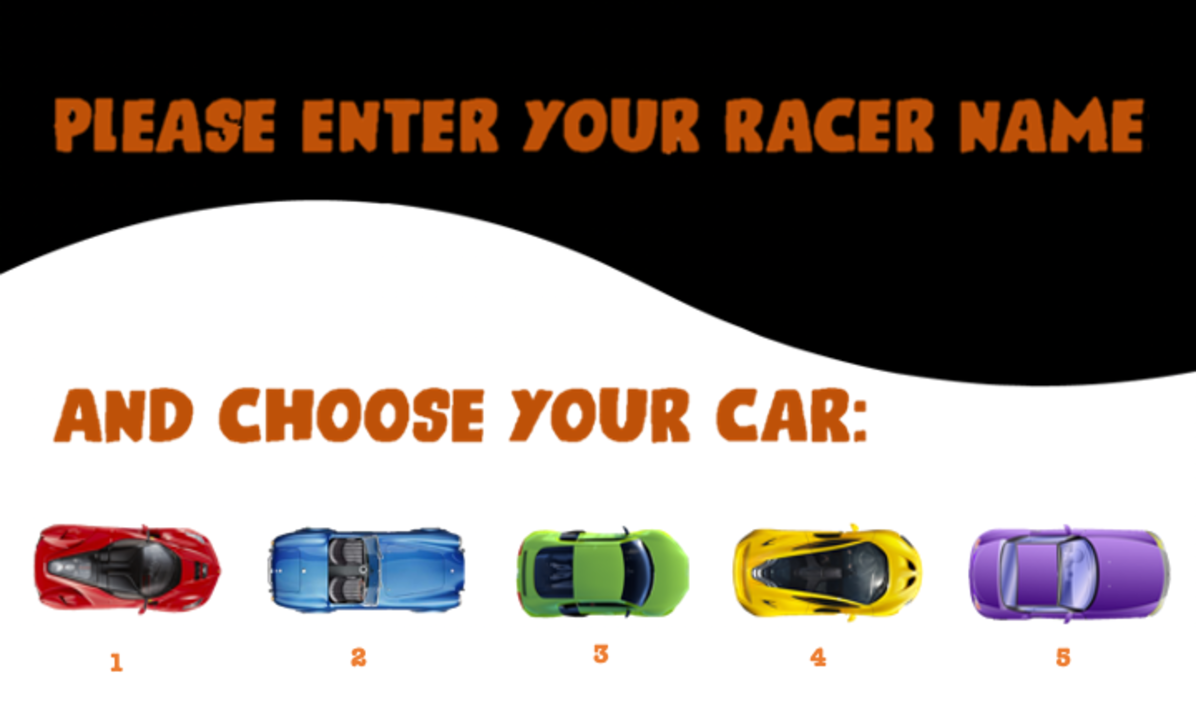
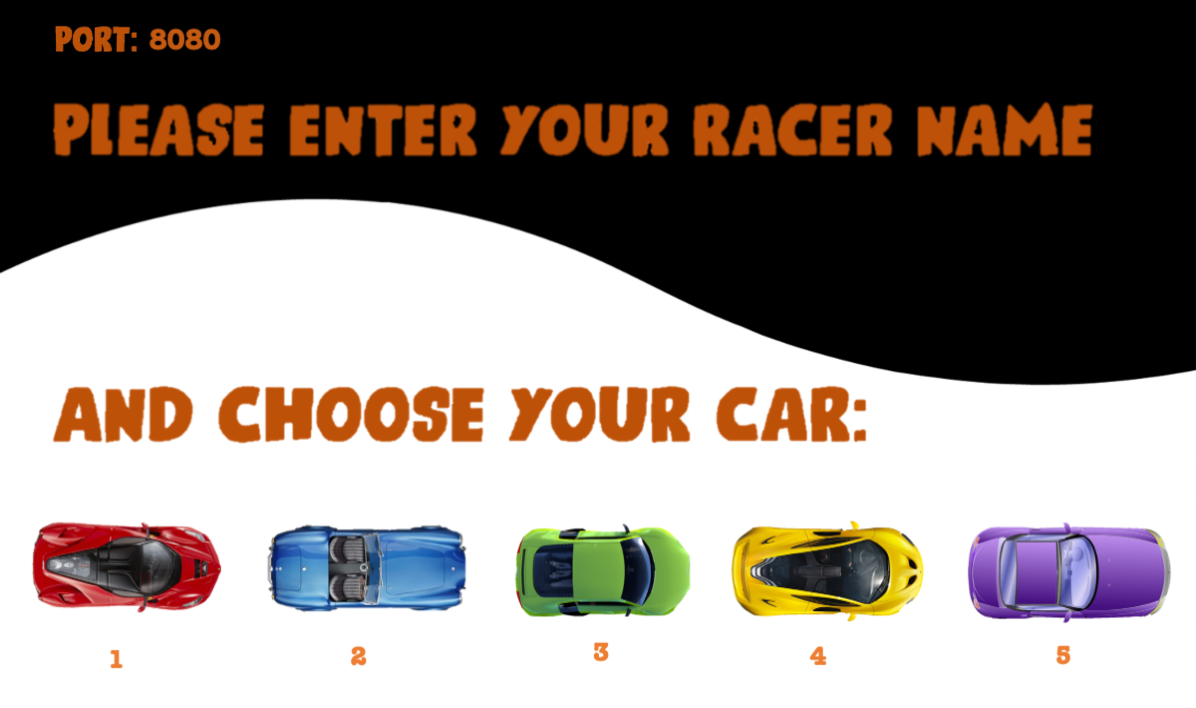
Changed Registration view to include the port number

diff --git a/src/main/java/org/academiadecodigo/speedTyper/View/Impl/PresentationView.java b/src/main/java/org/academiadecodigo/speedTyper/View/Impl/PresentationView.java
@@ -1,6 +1,7 @@
 package org.academiadecodigo.speedTyper.View.Impl;
 
 import org.academiadecodigo.speedTyper.View.AbstractView;
+import org.academiadecodigo.speedTyper.Waiter;
 
 public class PresentationView extends AbstractView {
 
@@ -12,11 +13,7 @@ public class PresentationView extends AbstractView {
     @Override
     public void show(){
         super.show();
-        try {
-            Thread.sleep(5000);
-        } catch (InterruptedException e) {
-            e.printStackTrace();
-        }
+        Waiter.wait(5000);
         setMoveNext(true);
     }
 }
